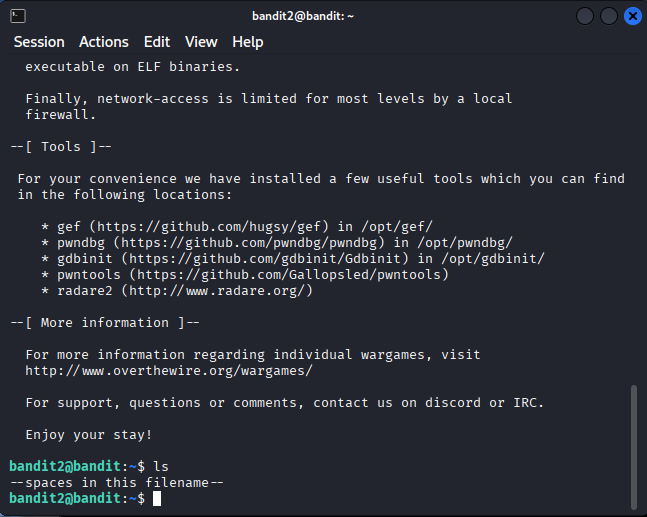
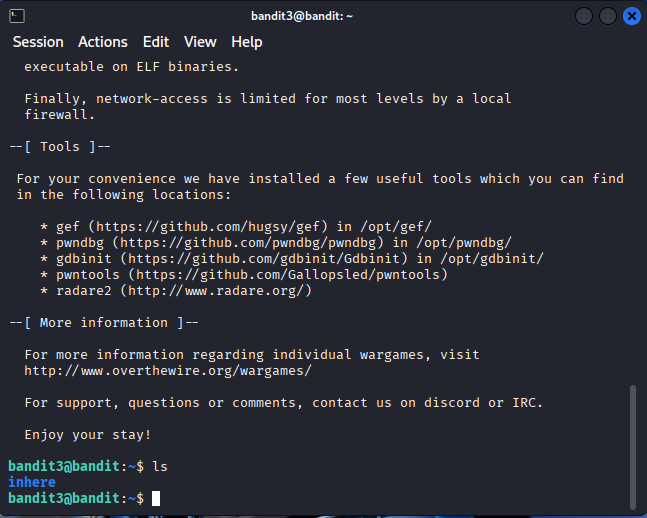
Fixing filenames and links

diff --git a/OverTheWire/Bandit/bandit2.md b/OverTheWire/Bandit/bandit2.md
@@ -1,42 +1,48 @@
 # [OverTheWire] - [Bandit2]
 
-**Date:** 10/9/2025  
-**Difficulty:** Easy  
-**Objective:** The password for the next level is stored in a file called - located in the home directory
+**Date:** 2025-10-09  
+**Difficulty:** Easy   
+**Objective:** The password for the next level is stored in a file called --spaces in this filename-- located in the home directory
 
 ---
 
 ## Step 1: Recon / Information Gathering
-Since we have the password from the previous challenge, we can ssh to the same host using the new username/password combination. To see how to connect via SSH, refer to my previous post: ![Bandit0 Walkthrough](/bandit0.png) 
+This challenge is similar to the one before. We have a specified file, listed in our home directory, and we are charged with reading that file for the password to the next challenge. Simple enough, right?
 
-![Screenshot of challenge text](/Assets/bandit1.png)
+![Screenshot of challenge text](/Assets/Bandit2.png)
 
 ---
 
 ## Step 2: Exploit / Solution
-Now that we've logged in, let's check the home directory. Let's once more run a list command to figure out what is in the home directory.
+So far it's pretty standard. Let's just run a ls command to see what's actually here:
 
-![Screenshot of list contents](/Assets/bandit1_ls.png)
+![Screenshot of challenge text](/Assets/bandit2_ls.png)
 
-Okay, there it is. One simple filed named - . That should be simple enough to open, right? So let's try to cat this file and get that password:
+So let's try to cat the file like we did before: 
 
-![Screenshot of reading file](/Assets/bandit1_cat1.png)
+![Screenshot of first cat attempt](/Assets/bandit2_cat1.png)
 
-Since a screenshot doesn't show a time lapse very well, rest assured I waited for a solid 2-3 minutes at this screen with no improvement. It looks like it may have frozen. So let's dig a little deeper into this.
+So as you can see from the above screenshot, this took me a moment to figure out. Apparently this is not the same as the last challenge. I thought since the last challenge consisted of opening a file labeled with just a hyphen, that this challenge was naturally a progression of this logic. Well, I was close but that's not quite the case.
 
-I had to search around to find an answer on how to open this file. I'm sure there is a reason why someone would name their file starting with a hyphen, but those reasons escape me currently. It took a little searching, but apparently we can open the file with a small syncatical change:
+After a *lot* of searching, I finally found the answer. I was starting to feel hopeless, but that's when I stumbled upon this little nugget of hope. 
 
-![Screenshot of reading file](/Assets/bandit1_cat2.png)
+Let's take a look at the error again. We're not always this lucky, but the error is telling us the issue. When we try to run the **cat** command followed by --spaces in this filename--, cat is interpreting --spaces as an argument. When encapsulating in single or double quotes, this just passes the entire line as an argument (i.e. --spaces in this filename--). 
 
-When a file begins with special characters, the best way is to specify the absolute path to the file. 
+To go a step further in explaining, cat is like many commands in Linux in that it has various switches to customize the data grabbed and output, as well as how that data is shown. Using an example file test.txt, we can run cat -n test.txt, which will read the file and output this on our screen with numbered lines (thanks to the -n operand). If you read the documentation for cat, you'll notice there is no operand for --spaces in this filename. I suppose that's a good thing since we need to open a file, but not necessarily in a specific way.
+
+So where does this leave us? How does one recoup a file that was given an ill named convention by a junior admin? 
+
+We're going to throw on some more hyphens. Two, to be exact. When we put them in the right place, we are telling cat to process the rest as raw input, not as an operand. So, let's try it out (and remember not to typo like I did at first):
+
+![Screenshot of successful cat attempt](/Assets/bandit2_cat2.png)
 
 ---
 
 ## Step 3: Lessons Learned
-- How to open file with unconventional naming convention  
+- New method to escape perceived operand   
 
 ---
 
 ## References
-- [Link to the challenge](https://overthewire.org/wargames/bandit/bandit2.html)  
-- [Link to forum post detailing how to open file](https://serverfault.com/questions/124659/how-can-i-open-a-file-whose-name-starts-with)
+- [Link to the challenge](https://overthewire.org/wargames/bandit/bandit3.html)  
+- [Reference to GNU documentation - refer to Section 9.1.3](https://www.gnu.org/software/coreutils/manual/coreutils.html#cat-invocation)

diff --git a/OverTheWire/Bandit/bandit1.md b/OverTheWire/Bandit/bandit1.md
@@ -1,55 +1,42 @@
 # [OverTheWire] - [Bandit1]
 
-**Date:** 10/7/2025  
+**Date:** 10/9/2025  
 **Difficulty:** Easy  
-**Objective:** Log into the game using SSH.
+**Objective:** The password for the next level is stored in a file called - located in the home directory
 
 ---
 
 ## Step 1: Recon / Information Gathering
-This first level is relatively simple. We need to login to the game via SSH (Secure Shell). 
+Since we have the password from the previous challenge, we can ssh to the same host using the new username/password combination. To see how to connect via SSH, refer to my previous post: ![Bandit0 Walkthrough](/bandit0.md) 
 
-Secure Shell is a technology that allows secure remote connections. This allows secure communication and file transfer employing robust security mechanisms for safety. As long as the service is installed on both sides, you should be able to connect with either a password, passphrase or SSH key.
-
-![Screenshot of challenge text](/Assets/bandit0.png)
-
-So once we login, we can get the next level password and really start crackin'. That sounds like a plan. Before we proceed, do you know how to login via ssh?
+![Screenshot of challenge text](/Assets/bandit1.png)
 
 ---
 
 ## Step 2: Exploit / Solution
+Now that we've logged in, let's check the home directory. Let's once more run a list command to figure out what is in the home directory.
 
-Logging in via SSH is relatively simple, especially given that we already have the username/password combo for the challenge. 
+![Screenshot of list contents](/Assets/bandit1_ls.png)
 
-Logging in via ssh is as simple as this:
+Okay, there it is. One simple filed named - . That should be simple enough to open, right? So let's try to cat this file and get that password:
 
-	ssh -p <port number> <username>@<hostname or IP address>
+![Screenshot of reading file](/Assets/bandit1_cat1.png)
 
-So in our case, its as simple as:
+Since a screenshot doesn't show a time lapse very well, rest assured I waited for a solid 2-3 minutes at this screen with no improvement. It looks like it may have frozen. So let's dig a little deeper into this.
 
-	ssh -p 2220 bandit0@bandit.labs.overthewire.org
+I had to search around to find an answer on how to open this file. I'm sure there is a reason why someone would name their file starting with a hyphen, but those reasons escape me currently. It took a little searching, but apparently we can open the file with a small syncatical change:
 
-![Screenshot of login terminal](/Assets/bandit0_login.png)
-![Screenshot of password prompt](/Assets/bandit0_password.png)
+![Screenshot of reading file](/Assets/bandit1_cat2.png)
 
-So now let's reference the rest of the challenge to see where to go next. According to the challenge, the password is in a "readme" in the home directory. Let's start by listing the home directory contents. We can do this by running an *ls* command:
-
-![Screenshot of home directory contents](/Assets/bandit0_home.png)
-
-Nice! So from here, let's open the file and get that password. We have two options (really there are more, but these are the two I default to): *cat* and *nano*. There isn't a wrong answer between these or others, but since we just need to read I'm going to use *cat*:
-
-![Screenshot of home readme contents](/Assets/bandit0_cat.png)
-
-And there's the password. Let's grab that, save it, and move on to the next level. Make sure you terminate your existing SSH connection before moving on. 
+When a file begins with special characters, the best way is to specify the absolute path to the file. 
 
 ---
 
 ## Step 3: Lessons Learned
-- How to properly SSH to a remote host on an alternate port using password authentication 
-
+- How to open file with unconventional naming convention  
 
 ---
 
 ## References
-- [Link to the challenge](https://overthewire.org/wargames/bandit/bandit0.html)  
-- [SSH Documentation](https://www.ssh.com/academy/ssh/command)
+- [Link to the challenge](https://overthewire.org/wargames/bandit/bandit2.html)  
+- [Link to forum post detailing how to open file](https://serverfault.com/questions/124659/how-can-i-open-a-file-whose-name-starts-with)

diff --git a/OverTheWire/Bandit/bandit0.md b/OverTheWire/Bandit/bandit0.md
@@ -1,0 +1,55 @@
+# [OverTheWire] - [Bandit0]
+
+**Date:** 10/7/2025  
+**Difficulty:** Easy  
+**Objective:** Log into the game using SSH.
+
+---
+
+## Step 1: Recon / Information Gathering
+This first level is relatively simple. We need to login to the game via SSH (Secure Shell). 
+
+Secure Shell is a technology that allows secure remote connections. This allows secure communication and file transfer employing robust security mechanisms for safety. As long as the service is installed on both sides, you should be able to connect with either a password, passphrase or SSH key.
+
+![Screenshot of challenge text](/Assets/bandit0.png)
+
+So once we login, we can get the next level password and really start crackin'. That sounds like a plan. Before we proceed, do you know how to login via ssh?
+
+---
+
+## Step 2: Exploit / Solution
+
+Logging in via SSH is relatively simple, especially given that we already have the username/password combo for the challenge. 
+
+Logging in via ssh is as simple as this:
+
+	ssh -p <port number> <username>@<hostname or IP address>
+
+So in our case, its as simple as:
+
+	ssh -p 2220 bandit0@bandit.labs.overthewire.org
+
+![Screenshot of login terminal](/Assets/bandit0_login.png)
+![Screenshot of password prompt](/Assets/bandit0_password.png)
+
+So now let's reference the rest of the challenge to see where to go next. According to the challenge, the password is in a "readme" in the home directory. Let's start by listing the home directory contents. We can do this by running an *ls* command:
+
+![Screenshot of home directory contents](/Assets/bandit0_home.png)
+
+Nice! So from here, let's open the file and get that password. We have two options (really there are more, but these are the two I default to): *cat* and *nano*. There isn't a wrong answer between these or others, but since we just need to read I'm going to use *cat*:
+
+![Screenshot of home readme contents](/Assets/bandit0_cat.png)
+
+And there's the password. Let's grab that, save it, and move on to the next level. Make sure you terminate your existing SSH connection before moving on. 
+
+---
+
+## Step 3: Lessons Learned
+- How to properly SSH to a remote host on an alternate port using password authentication 
+
+
+---
+
+## References
+- [Link to the challenge](https://overthewire.org/wargames/bandit/bandit0.html)  
+- [SSH Documentation](https://www.ssh.com/academy/ssh/command)

diff --git a/OverTheWire/Bandit/bandit4.md b/OverTheWire/Bandit/bandit4.md
@@ -9,18 +9,18 @@
 ## Step 1: Recon / Information Gathering
 As with the previous challenges, we need to connect to Bandit3 over ssh. Then we can start some enumeration and get our bearings.
 
-![Screenshot of challenge text](/Assets/bandit4.png)
+![Screenshot of challenge text](/Assets/bandit3.png)
 
 ---
 
 ## Step 2: Exploit / Solution
 Let's run a ls command and see what is listed in the home directory:
 
-![Screenshot of home directory](/Assets/bandit4_ls.png)
+![Screenshot of home directory](/Assets/bandit3_ls.png)
 
 Okay, simple enough. We have a directory listed here, called "inhere". So far that's about what we were told, so let's see what's in the directory.
 
-![Screenshot of home directory](/Assets/bandit4_ls.png)
+![Screenshot of home directory](/Assets/bandit3_ls.png)
 
 I'm going to drop a little more context for us here. Running your standard list (ls) command doesn't work here. That's because the file is hidden. Once we run ls with the operands -la then we can see the hidden file. 
 
@@ -31,7 +31,7 @@ Technically you only need the -a switch, but I prefer to use both to get more in
 
 Now we can just cat the file to get the next level password. 
 
-![Screenshot of home directory](/Assets/bandit4_file_contents.png)
+![Screenshot of home directory](/Assets/bandit3_file_contents.png)
 
 
 ---
